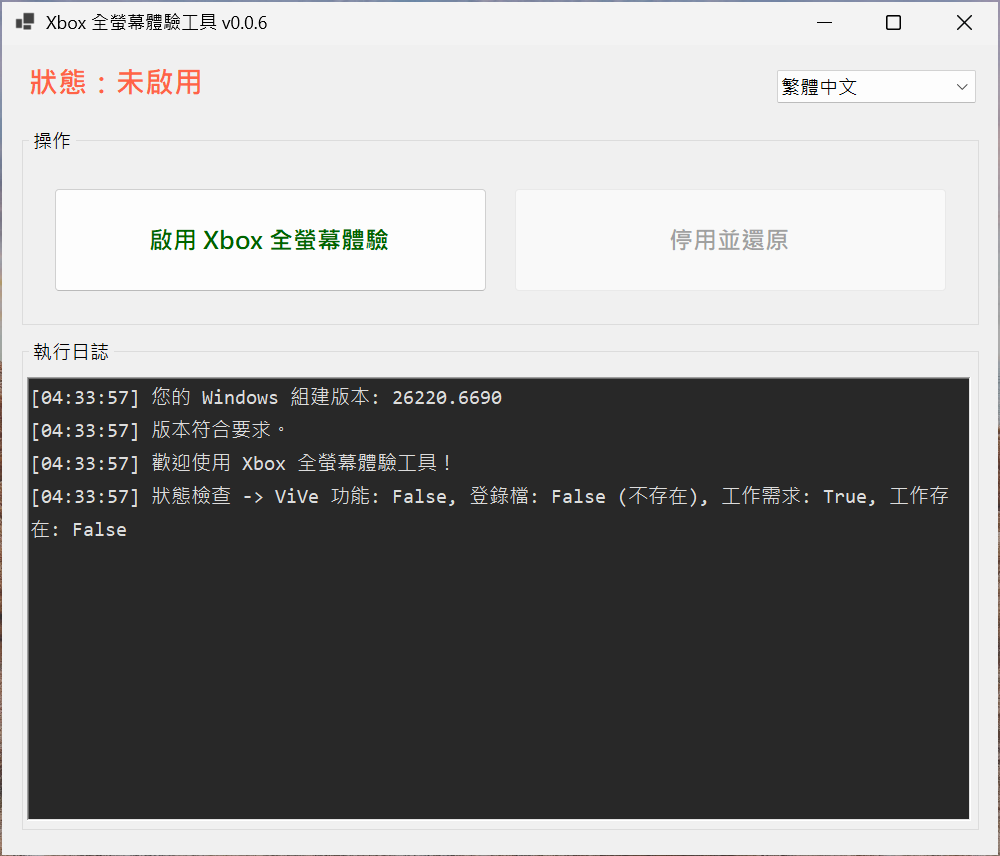
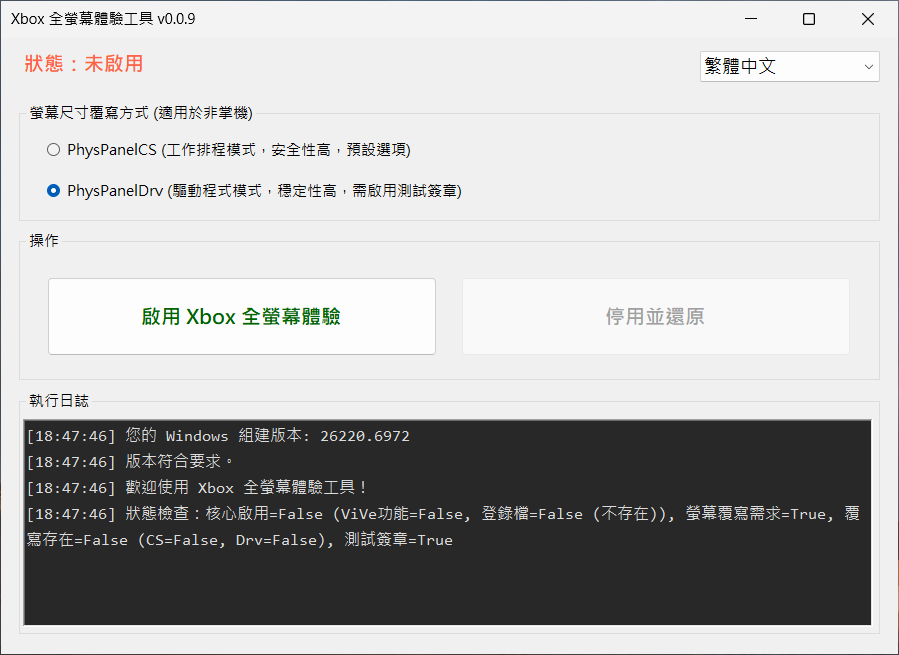
docs: Rework README for the new dual-mode override method
- Restructured the documentation to explain the two available override methods: the default Task Scheduler mode and the new, more robust Driver mode.
- Replaced the "Future Plans" section with a practical user guide, including detailed prerequisites for enabling Test Signing to use the `PhysPanelDrv` driver.
- Updated the minimum Windows build requirements to align with the new supported baseline.
- Revised the "Features" and "How to Use" sections to incorporate the mode selection workflow.

diff --git a/README.zh-TW.md b/README.zh-TW.md
@@ -11,10 +11,10 @@
 </p>
 
 <p align="center">
-<a href="https://github.com/8bit2qubit/XboxFullscreenExperienceTool/releases/latest"><img src="https://img.shields.io/github/v/release/8bit2qubit/XboxFullscreenExperienceTool?style=flat-square&color=blue" alt="最新版本"></a>
-<a href="https://github.com/8bit2qubit/XboxFullscreenExperienceTool/releases"><img src="https://img.shields.io/github/downloads/8bit2qubit/XboxFullscreenExperienceTool/total" alt="總下載量"></a>
+<a href="https://github.com/8bit2qubit/XboxFullScreenExperienceTool/releases/latest"><img src="https://img.shields.io/github/v/release/8bit2qubit/XboxFullScreenExperienceTool?style=flat-square&color=blue" alt="最新版本"></a>
+<a href="https://github.com/8bit2qubit/XboxFullScreenExperienceTool/releases"><img src="https://img.shields.io/github/downloads/8bit2qubit/XboxFullScreenExperienceTool/total" alt="總下載量"></a>
 <a href="#"><img src="https://img.shields.io/badge/tech-C%23%20%26%20.NET%208-blueviolet.svg?style=flat-square" alt="技術"></a>
-<a href="https://github.com/8bit2qubit/XboxFullscreenExperienceTool/blob/main/LICENSE"><img src="https://img.shields.io/github/license/8bit2qubit/XboxFullscreenExperienceTool" alt="授權條款"></a>
+<a href="https://github.com/8bit2qubit/XboxFullScreenExperienceTool/blob/main/LICENSE"><img src="https://img.shields.io/github/license/8bit2qubit/XboxFullScreenExperienceTool" alt="授權條款"></a>
 </p>
 
 一款簡單、安全的一鍵式工具，專為啟用 Windows 11 中隱藏的 Xbox 全螢幕遊戲體驗而生。本工具將繁複的底層設定全部自動化，讓您輕鬆享受專為遊戲手把最佳化的類主機介面。
@@ -31,44 +31,50 @@
 
 -----
 
-## 💡 未來規劃與技術挑戰
+## 💡 為桌機與筆電覆寫螢幕尺寸：選擇您的模式
 
-### 挑戰：為非掌上型裝置打造完美體驗
+Xbox 全螢幕體驗專為掌機尺寸的螢幕設計。若您使用的是**桌上型或筆記型電腦**，您的螢幕尺寸很可能超過支援範圍，此時就需要覆寫螢幕的實體尺寸。本工具為此提供了兩種模式。
 
-Xbox 全螢幕功能最適合小尺寸的掌上型裝置。若要在其他硬體上啟用此功能，就必須進行螢幕尺寸覆寫。這對於兩大主要使用者族群至關重要：一是**桌上型電腦**，其通常回報未定義 (0x0) 的實體尺寸；二是**筆記型電腦**，其螢幕幾乎總是大於 9.5 吋的掌機門檻。
+### 工作排程模式: `PhysPanelCS`
+此為預設選項，它簡單易用且無須額外的手動設定。它會在開機時排程一個工作來套用覆寫。然而，這在高速系統上會產生「競爭條件」(Race Condition)。如果您登入速度過快，Windows Shell 可能會在覆寫套用前就完成初始化，導致該次工作階段退回標準桌面。
 
-目前的方法是使用「工作排程器」在開機時套用此覆寫，將螢幕模擬為 7 吋大小，但這會產生「競爭條件」(Race Condition)。在一台配備高速 SSD 的電腦上，若您快速登入（特別是使用 Windows Hello），Windows Shell 會在覆寫成功套用前就完成初始化。結果就是，系統介面會以預設的螢幕設定啟動，導致該次登入無法啟用特殊的 Xbox 介面。
+### 驅動程式模式: `PhysPanelDrv`
+此進階模式使用一個自訂核心驅動程式，在系統開機的最早階段就套用螢幕尺寸覆寫，可徹底解決競爭條件問題。對於桌機與筆電，這是最穩定可靠的解決方案。
 
-### 解決方案與瓶頸
-
-終極的解決方案是一個名為 [`PhysPanelDrv`](https://github.com/8bit2qubit/PhysPanelDrv) 的核心驅動程式，它能在系統開機的最早階段就套用螢幕尺寸覆寫，從而徹底解決桌機與筆電上的競爭條件問題。然而，為了讓 Windows 信任此驅動程式，它需要來自高信譽來源的數位簽章，例如「EV 程式碼簽署憑證」（用以提交給微軟的證明流程），這對於獨立開發者而言是一個重大的技術障礙。**這意味著 `PhysPanelDrv` 目前是以概念驗證 (proof-of-concept) 的形式存在，而不是一個可公開發布的解決方案。**
+> #### **`PhysPanelDrv` 模式的前置作業**
+>
+> 安裝此**使用測試簽章的驅動程式**需要您手動停用「安全啟動」並啟用 Windows 的「測試簽署模式」。
+>
+> **步驟一：進入 BIOS 設定**
+> 1.  重新啟動電腦，在開機時按下指定按鍵 (通常是 `Del`, `F2`, `F10`, 或 `Esc`) 進入 BIOS/UEFI 設定。
+> 2.  找到並**關閉 Secure Boot (安全啟動)** 選項。
+> 3.  儲存設定並離開。
+>
+> **步驟二：啟用測試簽章**
+> 1.  電腦重啟進入 Windows 後，使用**系統管理員權限**打開終端機 (PowerShell 或 CMD)。
+> 2.  輸入以下指令，然後按下 Enter：
+>     ```
+>     bcdedit /set testsigning on
+>     ```
+> 3.  完成後，再次重新開機。
+>
+> 完成以上步驟後，您就可以在工具中選取 **`PhysPanelDrv`**。
 
 -----
 
 ## ⚙ 系統版本要求
 
-本工具**僅適用於 Windows 11 開發人員預覽版 (Dev Channel) 組建 `26220.6690` 或更新版本**。在不符要求的系統上，工具將提示錯誤並無法執行。
+本工具適用於 **Windows 11 Release Preview Channel 組建 `26200.7015` 或更新版本**。在不符要求的系統上，工具將提示錯誤並無法執行。
 
 > ### **如何判讀版本號 (非常重要！)**
 >
 > 當檢查版本時，**請務必查看小數點前的「主要版本號」**。小數點後的數字僅代表次要更新。
 >
-> * **不相容:** `26100.xxxx` (Release Build 24H2)
-> * **不相容:** `26200.xxxx` (Release Build 25H2)
-> * **相容:** `26220.6690` 或更新版本 (Dev Build 25H2)
+> *   **不相容:** `26100.xxxx` (Release Build 24H2)
+> *   **相容:** `26200.7015` 或更新版本 (Release Preview Build 25H2)
+> *   **相容:** `26220.6972` 或更新版本 (Dev Build 25H2)
 >
-> **範例：** `26200.6899` 這樣的版本是**不相容**的，因為它的主要版本號 **26200** 小於 (舊於) 所要求的 **26220**。
-
-> ### **為什麼只支援 Dev Channel？ (請務必閱讀)**
->
-> 這是一個常見問題。雖然 Xbox 全螢幕體驗功能也存在於其他版本中 (例如 25H2 正式版 `26200.xxxx`)，但決定僅支援 **Dev Channel** 是完全基於**品質與穩定性**的考量。
->
-> * **已知的問題 (Bug):** 非 Dev Channel 的版本存在著一些嚴重影響使用者體驗的錯誤，包括：
->     * **「工作檢視」介面** 的不穩定。
->     * **關閉應用程式時 (例如操作 'X' 按鈕)** 發生問題。
->     * 在 `26200.6899` 更新之前的版本，體驗尤其糟糕。
->
-> Dev Channel 提供了遠比其他版本更穩定、更成熟的功能實作。未來如果這些問題在公開版本中得到修復，將會考慮支援其他頻道。
+> **範例：** `26200.6899` 這樣的版本是**不相容**的，因為它的次要版本號 `.6899` 小於 (舊於) 所要求的 `.7015`。
 
 如果您的系統不符合需求，可參考此份完整的升級教學指南，其中引導您加入「Windows 測試人員計畫」並升級至正確的組建版本：
 * **[繁體中文指南 (Traditional Chinese Guide)](https://github.com/8bit2qubit/xbox-fullscreen-experience-guide/blob/main/README.zh-TW.md)**
@@ -77,7 +83,7 @@ Xbox 全螢幕功能最適合小尺寸的掌上型裝置。若要在其他硬體
 
 請在下載前確認您的作業系統版本。
 
-**[➡ 前往發行頁面下載最新版本](https://github.com/8bit2qubit/XboxFullscreenExperienceTool/releases/latest)**
+**[➡ 前往發行頁面下載最新版本](https://github.com/8bit2qubit/XboxFullScreenExperienceTool/releases/latest)**
 
 -----
 
@@ -94,9 +100,9 @@ Xbox 全螢幕功能最適合小尺寸的掌上型裝置。若要在其他硬體
 *   **一鍵切換**：提供直觀的介面，只需點選一次即可啟用或停用 Xbox 全螢幕體驗。
 *   **自動系統檢查**：啟動時自動驗證您的 Windows 組建版本，確保符合執行要求。
 *   **硬體類型模擬**：若您使用桌上型或筆記型電腦，工具會自動將裝置類型模擬為掌機，以滿足啟用條件。
+*   **可選覆寫模式**：為桌機與筆電提供 `PhysPanelCS` (工作排程模式) 或 `PhysPanelDrv` (驅動程式模式) 選項。
 *   **安全且完全可逆**：所有變更都會在停用或解除安裝時被還原。工具會備份初始設定，確保您的系統能無損恢復原狀。
 *   **標準化安裝**：提供標準的 `.msi` 安裝檔，便於版本管理與乾淨解除安裝。
-*   **全流程自動化**：所有步驟皆由工具自動完成，無需手動介入。
 
 -----
 
@@ -105,10 +111,12 @@ Xbox 全螢幕功能最適合小尺寸的掌上型裝置。若要在其他硬體
 本工具用於準備您的系統環境，最終的啟用步驟需要依照以下流程在 Windows 設定中完成。
 
 ### 1. 準備您的系統
-1.  從 **[發行頁面](https://github.com/8bit2qubit/XboxFullscreenExperienceTool/releases/latest)** 下載最新的 `.msi` 安裝檔。
+1.  從 **[發行頁面](https://github.com/8bit2qubit/XboxFullScreenExperienceTool/releases/latest)** 下載最新的 `.msi` 安裝檔。
 2.  執行安裝程式（過程需要系統管理員權限）。
-3.  從桌面捷徑啟動工具，並點選 `啟用 Xbox 全螢幕體驗` 按鈕。
-4.  **重新啟動**您的電腦以套用變更。
+3.  從桌面捷徑啟動工具。若使用桌機或筆電，請選擇您偏好的覆寫模式。
+    > **注意：** 如果您選擇 **`PhysPanelDrv`**，請務必先完成上述的前置作業。
+4.  點選 `啟用 Xbox 全螢幕體驗` 按鈕。
+5.  **重新啟動**您的電腦以套用變更。
 
 ### 2. 更新核心應用程式
 1.  電腦重啟後，開啟 **Microsoft Store**。
@@ -136,6 +144,7 @@ Xbox 全螢幕功能最適合小尺寸的掌上型裝置。若要在其他硬體
 *   **相依函式庫**:
     *   **ViVeLib (ViVeTool)**: 一個用於操控 Windows 功能組態 (Feature Flags) 的原生 API 封裝函式庫。以 Git Submodule 方式整合，原始碼來自 [thebookisclosed/ViVe](https://github.com/thebookisclosed/ViVe)，特此感謝。
     *   **PhysPanelLib**: 封裝 `ntdll.dll` 未公開 API，用以讀寫實體顯示面板 (Physical Panel) 尺寸資訊的函式庫。為本專案自研，其概念參考自 [riverar/physpanel](https://github.com/riverar/physpanel) 的 Rust 實作，特此感謝。
+    *   **PhysPanelDrv**: 一個輕量級的核心驅動程式，用於「驅動程式模式」以覆寫實體顯示面板尺寸，能可靠地模擬掌機螢幕大小。以 Git Submodule 方式整合，原始碼來自 [8bit2qubit/PhysPanelDrv](https://github.com/8bit2qubit/PhysPanelDrv)。
 *   **安裝套件**: Visual Studio Installer Projects (MSI)
 
 -----
@@ -158,8 +167,8 @@ Xbox 全螢幕功能最適合小尺寸的掌上型裝置。若要在其他硬體
 1.  **複製儲存庫**
 
     ```bash
-    git clone https://github.com/8bit2qubit/XboxFullscreenExperienceTool.git
-    cd XboxFullscreenExperienceTool
+    git clone https://github.com/8bit2qubit/XboxFullScreenExperienceTool.git
+    cd XboxFullScreenExperienceTool
     ```
 
 2.  **初始化子模組**
@@ -170,18 +179,18 @@ Xbox 全螢幕功能最適合小尺寸的掌上型裝置。若要在其他硬體
     ```
 
 3.  **在 Visual Studio 中開啟**
-    使用 Visual Studio 開啟 `XboxFullscreenExperienceTool.sln` 方案檔。
+    使用 Visual Studio 開啟 `XboxFullScreenExperienceTool.sln` 方案檔。
 
 4.  **執行以進行開發**
     在 Visual Studio 中，將組建組態設定為 `Debug`，然後按下 `F5` 來建置並執行應用程式。
 
 5.  **建置以用於生產**
-    當您準備好部署時，將組建組態切換至 `Release` 並建置方案。成品將會生成在 `XboxFullscreenExperienceTool/bin/Release` 資料夾下。
+    當您準備好部署時，將組建組態切換至 `Release` 並建置方案。成品將會生成在 `XboxFullScreenExperienceTool/bin/Release` 資料夾下。
 
 -----
 
 ## 📄 授權條款
 
-本專案採用 [GNU General Public License v3.0 (GPL-3.0)](https://github.com/8bit2qubit/XboxFullscreenExperienceTool/blob/main/LICENSE) 授權。
+本專案採用 [GNU General Public License v3.0 (GPL-3.0)](https://github.com/8bit2qubit/XboxFullScreenExperienceTool/blob/main/LICENSE) 授權。
 
 這意味著您可以自由地使用、修改與散佈本軟體，但任何基於此專案的衍生作品在散佈時，**也必須採用相同的 GPL-3.0 授權，並提供完整的原始碼**。更多詳情，請參閱 [GPL-3.0 官方條款](https://www.gnu.org/licenses/gpl-3.0.html)。

diff --git a/README.md b/README.md
@@ -32,45 +32,50 @@ By using this tool, you acknowledge and agree to the following:
 
 -----
 
-## 💡 Future Plans & Technical Challenges
+## 💡 Screen Override for PCs & Laptops: Choosing Your Method
 
-### The Challenge: Perfecting the Experience on Non-Handhelds
+The Xbox Full Screen Experience is designed for handheld-sized screens. If you are using a **desktop PC or a laptop**, your screen is likely larger than the supported size, requiring a screen dimension override. This tool offers two methods to achieve this.
 
-The Xbox Full Screen feature works best on small, handheld-sized screens. To enable it on other hardware, a screen size override is necessary. This is crucial for two main user groups: **desktop PCs**, which typically report undefined (0x0) physical dimensions, and **laptops**, whose screens are almost always larger than the 9.5-inch handheld threshold.
+### Task Scheduler Mode: `PhysPanelCS`
+This is the default method. It is easy to use and requires no additional manual setup. It schedules a task to apply the override at boot. However, this can create a race condition on fast systems. If you log in too quickly, the Windows Shell may initialize before the override is applied, causing it to fall back to the standard desktop for that session.
 
-The current method uses a Task Scheduler to apply this override at boot, simulating a 7-inch screen, but this creates a race condition. On a system with a fast SSD, if you log in quickly, especially using Windows Hello, the Windows Shell will initialize before the override is applied. As a result, the Shell starts with the default screen settings and fails to launch the special Xbox interface for that session.
+### Driver Mode: `PhysPanelDrv`
+This advanced mode uses a custom kernel driver to apply the override at the earliest stage of system boot, which completely eliminates the race condition. This is the most robust and reliable solution for desktops and laptops.
 
-### The Robust Solution vs. The Technical Barrier
-
-The definitive solution is a kernel driver, [`PhysPanelDrv`](https://github.com/8bit2qubit/PhysPanelDrv), which applies the screen size override at the earliest stage of system boot. This completely eliminates the race condition for desktops and laptops. For this driver to be trusted by Windows, it must pass Microsoft's driver attestation process. This requires a high-trust EV Code Signing Certificate just to submit, presenting a significant technical hurdle for an independent developer. **This means `PhysPanelDrv` currently exists as a proof-of-concept rather than a publicly distributable solution.**
+> #### **Prerequisites for `PhysPanelDrv` Mode**
+>
+> Installing this **test-signed driver** requires you to manually disable Secure Boot and enable Windows Test Signing Mode.
+>
+> **Step 1: Enter BIOS/UEFI Settings**
+> 1.  Restart your computer and press the designated key during boot (usually `Del`, `F2`, `F10`, or `Esc`) to enter the BIOS/UEFI setup.
+> 2.  Find and **disable** the **Secure Boot** option.
+> 3.  Save your changes and exit.
+>
+> **Step 2: Enable Test Signing in Windows**
+> 1.  Once your computer has restarted into Windows, open Terminal (PowerShell or Command Prompt) **as an administrator**.
+> 2.  Enter the following command and press Enter:
+>     ```
+>     bcdedit /set testsigning on
+>     ```
+> 3.  Restart your computer one more time to apply the change.
+>
+> After completing these steps, you can select **`PhysPanelDrv`** in the tool.
 
 -----
 
 ## ⚙ System Requirements
 
-This tool is **only compatible with Windows 11 Insider Dev Channel builds `26220.6690` or later**.
-If your system does not meet this requirement, the tool will display an error and exit.
+This tool is compatible with **Windows 11 Insider Release Preview Channel build `26200.7015` or later**. If your system does not meet this requirement, the tool will display an error and exit.
 
 > ### **How to Read Build Numbers (Important!)**
 >
 > When checking the version, **please look at the main build number (before the dot)**. The number *after* the dot is just a minor update revision.
 >
-> * **INCOMPATIBLE:** `26100.xxxx` (Release Build 24H2)
-> * **INCOMPATIBLE:** `26200.xxxx` (Release Build 25H2)
-> * **COMPATIBLE:** `26220.6690` or later (Dev Build 25H2)
+> *   **INCOMPATIBLE:** `26100.xxxx` (Release Build 24H2)
+> *   **COMPATIBLE:** `26200.7015` or later (Release Preview Build 25H2)
+> *   **COMPATIBLE:** `26220.6972` or later (Dev Build 25H2)
 >
-> **Example:** A build like `26200.6899` is **NOT** compatible because its main build **26200** is lower (older) than the required **26220**.
-
-> ### **Why is the Dev Channel Required? (Please Read)**
->
-> This is a common question. While the Xbox full screen feature is present in other builds (like Release 25H2, `26200.xxxx`), the decision to support the **Dev Channel** is strictly for quality and stability.
->
-> * **Known Bugs:** Non-Dev builds suffer from bugs that create a poor user experience. This includes:
->     * Instability with the **Task View**.
->     * Issues when **closing applications** (e.g., with the 'X' button).
->     * An exceptionally poor experience in `26200` builds prior to the `.6899` update.
->
-> The Dev Channel offers a far more stable and mature implementation. Support for other channels will be considered if these issues are resolved in future public builds.
+> **Example:** A build like `26200.6899` is **NOT** compatible because its revision `.6899` is lower than the required `.7015`.
 
 For a detailed walkthrough on joining the Windows Insider Program and upgrading to the correct build, refer to the following guide:
 * **[English Guide](https://github.com/8bit2qubit/xbox-fullscreen-experience-guide/blob/main/README.md)**
@@ -96,9 +101,9 @@ If you find this tool helpful, your support would be a great motivation for me t
 * **One-Click Toggle** – Simple interface to enable or disable the Xbox full screen experience.
 * **Automatic System Check** – Verifies your Windows build for compatibility at startup.
 * **Device Type Emulation** – Automatically simulates a handheld device type for activation on desktop or laptop systems.
+*   **Selectable Override Modes** – Choose between `PhysPanelCS` (Task Scheduler) or `PhysPanelDrv` (Driver) for PCs and laptops.
 * **Safe and Reversible** – All changes are fully reversible. Backups of original settings are created to ensure safe restoration.
 * **Standard Installation** – Distributed as a `.msi` installer for clean installation, management, and removal.
-* **Fully Automated Process** – Handles all steps automatically with no manual configuration required.
 
 -----
 
@@ -109,8 +114,10 @@ This tool prepares your system for the new mode. Final activation is done in Win
 ### 1. Prepare Your System
 1.  Download the latest `.msi` package from the [**Releases Page**](https://github.com/8bit2qubit/XboxFullScreenExperienceTool/releases/latest).
 2.  Run the installer (administrator privileges required).
-3.  Launch the tool from the desktop shortcut and click **“Enable Xbox Full Screen Experience”**.
-4.  **Restart your PC** for the changes to take effect.
+3.  Launch the tool from the desktop shortcut. If using a PC or laptop, select your preferred override mode.
+    > **Note:** If you choose **`PhysPanelDrv`**, ensure you have completed the prerequisites listed above first.
+4.  Click **“Enable Xbox Full Screen Experience”**.
+5.  **Restart your PC** for the changes to take effect.
 
 ### 2. Update Core Apps
 1.  After restarting, open the **Microsoft Store**.
@@ -138,6 +145,7 @@ This tool prepares your system for the new mode. Final activation is done in Win
 * **Dependencies**:
   * **ViVeLib (ViVeTool)** – A native API wrapper for managing Windows Feature Flags. Integrated as a Git submodule from [thebookisclosed/ViVe](https://github.com/thebookisclosed/ViVe).
   * **PhysPanelLib** – A custom library for reading and writing physical panel size information via undocumented `ntdll.dll` APIs. Concept adapted from [riverar/physpanel](https://github.com/riverar/physpanel).
+  * **PhysPanelDrv** – A lightweight kernel driver for `PhysPanelDrv` (Driver Mode) that reliably overrides physical display dimensions, ensuring the system consistently simulates a handheld screen size. Integrated as a Git submodule from [8bit2qubit/PhysPanelDrv](https://github.com/8bit2qubit/PhysPanelDrv).
 * **Installer**: Visual Studio Installer Projects (MSI)
 
 -----
